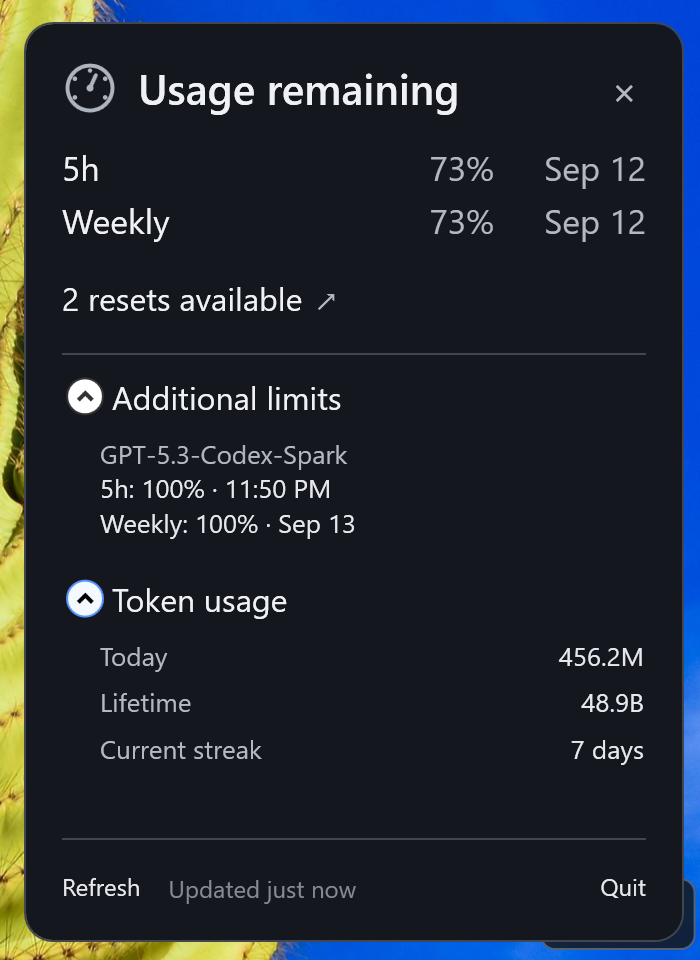
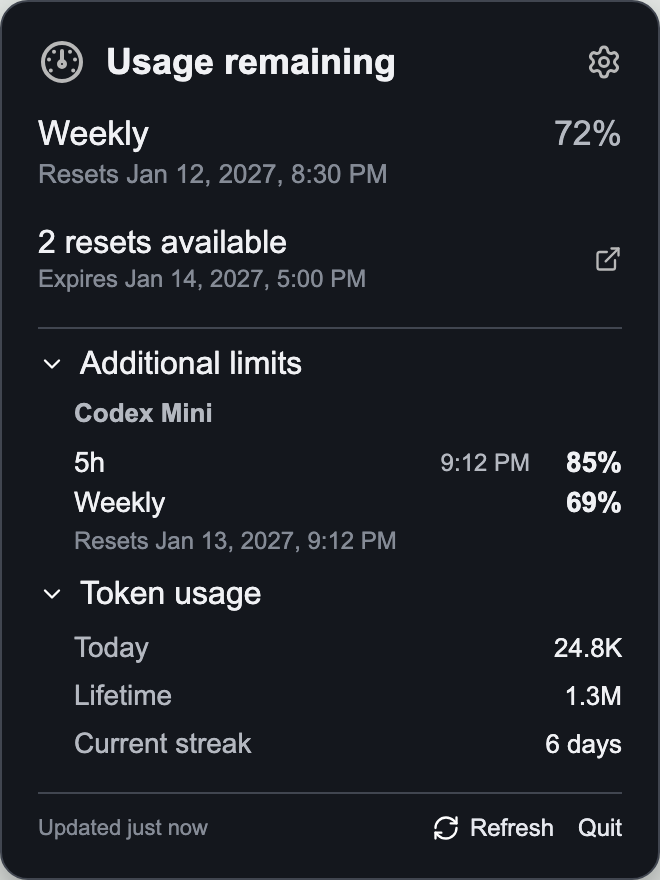
Refresh site screenshots for 1.0.29

diff --git a/docs/index.html b/docs/index.html
@@ -49,8 +49,8 @@
       </div>
       <div class="hero-art" aria-label="Example of the Mac usage menu and Windows widget">
         <div class="art-heading"><span>THE NUMBERS YOU NEED</span><span aria-hidden="true">↗</span></div>
-        <img class="menu-preview" src="assets/macos-menu.png" width="280" height="389" alt="Example Mac popup showing remaining usage, reset times, and expanded token totals">
-        <div class="widget-preview"><span>Also on Windows</span><img src="assets/windows-widget.png" width="180" height="96" alt="Windows desktop widget showing a sample remaining usage percentage"></div>
+        <img class="menu-preview" src="assets/macos-menu.png" width="280" height="413" alt="Illustrative Mac popup showing sample weekly quota, reset credits, and expanded token usage">
+        <div class="widget-preview"><span>Also on Windows</span><img src="assets/windows-widget.png" width="88" height="36" alt="Windows desktop widget showing a sample 72% remaining"></div>
         <p class="art-caption">Example screens with sample usage.</p>
       </div>
     </section>
@@ -65,8 +65,8 @@
     <section class="preview-section" id="preview" aria-labelledby="preview-heading">
       <div class="wrap"><div class="section-heading"><div><p class="eyebrow">TWO PLATFORMS. ONE PURPOSE.</p><h2 id="preview-heading">At home on your desktop.</h2></div><p>Compact views of your Codex usage.<br> Sample data shown below.</p></div>
         <div class="platform-previews">
-          <figure><figcaption><span>macOS</span><span>In your menu bar</span></figcaption><div class="screenshot-stage"><img src="assets/macos-menu.png" width="280" height="389" loading="lazy" alt="Mac example usage menu with quota, reset, and token details"></div><img class="small-screenshot" src="assets/macos-menubar.png" width="236" height="80" loading="lazy" alt="Mac menu-bar icon and sample remaining percentage"></figure>
-          <figure><figcaption><span>Windows</span><span>In your tray, on your desktop</span></figcaption><div class="screenshot-stage"><img src="assets/windows-popup.png" width="700" height="960" loading="lazy" alt="Windows example usage popup with quota, reset, and token details"></div><img class="small-screenshot windows-widget" src="assets/windows-widget.png" width="180" height="96" loading="lazy" alt="Movable Windows widget with a sample remaining percentage"></figure>
+          <figure><figcaption><span>macOS</span><span>In your menu bar</span></figcaption><div class="screenshot-stage"><img src="assets/macos-menu.png" width="280" height="413" loading="lazy" alt="Illustrative Mac usage menu with sample quota, reset credits, expanded additional limits and token usage"></div><img class="small-screenshot" src="assets/macos-menubar.png" width="120" height="28" loading="lazy" alt="Mac menu-bar item showing a sample 72% remaining beside Spotlight"></figure>
+          <figure><figcaption><span>Windows</span><span>In your tray, on your desktop</span></figcaption><div class="screenshot-stage"><img src="assets/windows-popup.png" width="330" height="440" loading="lazy" alt="Illustrative Windows usage popup with sample quota, reset credits, expanded additional limits and token usage"></div><img class="small-screenshot windows-widget" src="assets/windows-widget.png" width="88" height="36" loading="lazy" alt="Movable Windows widget showing a sample 72% remaining"></figure>
         </div>
       </div>
     </section>

diff --git a/docs/README.md b/docs/README.md
@@ -10,6 +10,7 @@ Keep the Google site-verification meta tag in `index.html` so Search Console own
 remains verified. The sitemap contains the canonical homepage URL. Download links use
 GitHub's latest-release page so they remain current without a website release.
 
-The screenshots are existing public demo images from `Artwork/Screenshots` and show
-sample usage. Update them when refreshing the app's public screenshots. Keep the
-Mac signing and notarization status distinct from the unsigned Windows installer.
+The screenshots are illustrative 1.0.29 views with sample usage. Their editable
+source is `Artwork/Screenshots/demo-source.html` on `main`; the rendered PNGs are
+copied to this branch's `docs/assets`. Keep Mac signing and notarization status
+distinct from the unsigned Windows installer.
